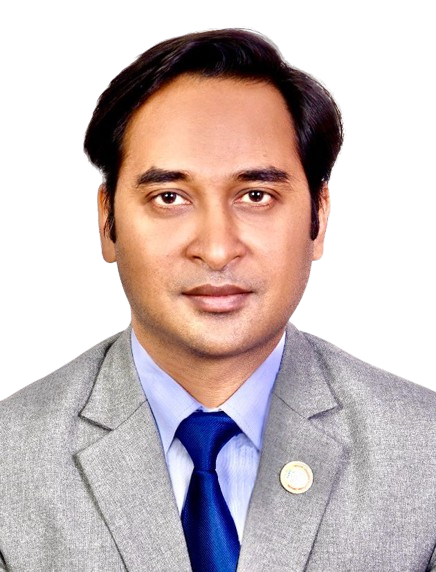
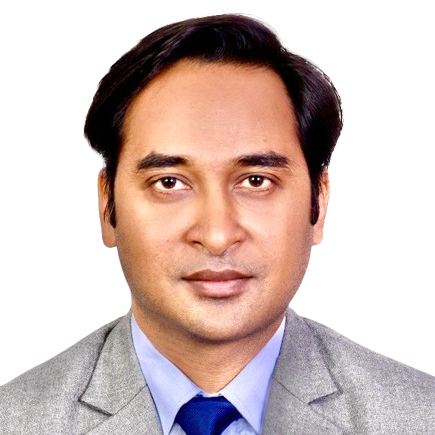
some pic changes

diff --git a/src/Components/Header.jsx b/src/Components/Header.jsx
@@ -53,11 +53,7 @@ const Header = () => {
                 </li>
 
 
-                {/* <li className="nav-item " onClick={closeNav}>
-                  <Link className="nav-link" to="/doctor">
-                    Find Doctors
-                  </Link>
-                </li> */}
+              
                 <li className="nav-item dropdown ">
                   <Link
                     className="nav-link dropdown-toggle"
@@ -77,12 +73,12 @@ const Header = () => {
                     </li>
                     <li onClick={closeNav}>
                       <Link className="dropdown-item dropdowncolor" to="/doctor">
-                       Gastrointerologies
+                       Gastrointerologist
                       </Link>
                     </li>
                     <li onClick={closeNav}>
                       <Link className="dropdown-item dropdowncolor" to="/doctor">
-                       Gastro
+                       Gastro Surgeon
                       </Link>
                     </li>
                     <li onClick={closeNav}>
@@ -92,7 +88,7 @@ const Header = () => {
                     </li>
                     <li onClick={closeNav}>
                       <Link className="dropdown-item dropdowncolor" to="/doctor">
-                        Oncologiest
+                        Onchologist
                       </Link>
                     </li>
                     <li onClick={closeNav}>
@@ -106,10 +102,67 @@ const Header = () => {
 
 
 
-                <li className="nav-item " onClick={closeNav}>
-                  <Link className="nav-link" to="/service">
+                
+
+                <li className="nav-item dropdown ">
+                  <Link
+                    className="nav-link dropdown-toggle"
+                    to="#"
+                    id="navbarDropdown"
+                    role="button"
+                    data-bs-toggle="dropdown"
+                    aria-expanded="false"
+                  >
                     Colorectal Disease
                   </Link>
+                  <ul className="dropdown-menu   border-0 " aria-labelledby="navbarDropdown ">
+                    <li onClick={closeNav}>
+                      <Link className="dropdown-item dropdowncolor " to="/service">
+                       Piles/Hemorrhoids
+                      </Link>
+                    </li>
+                    <li onClick={closeNav}>
+                      <Link className="dropdown-item dropdowncolor" to="/service">
+                      Fissure-in-Ano
+                      </Link>
+                    </li>
+                    <li onClick={closeNav}>
+                      <Link className="dropdown-item dropdowncolor" to="/service">
+                      Fistula in ANO
+                      </Link>
+                    </li>
+                    <li onClick={closeNav}>
+                      <Link className="dropdown-item dropdowncolor" to="/service">
+                   Rectal Prolapse
+                      </Link>
+                    </li>
+                    <li onClick={closeNav}>
+                      <Link className="dropdown-item dropdowncolor" to="/service">
+                       Pilonidal Sinus
+                      </Link>
+                    </li>
+                    <li onClick={closeNav}>
+                      <Link className="dropdown-item dropdowncolor" to="/service">
+                      Constipation
+                      </Link>
+                    </li>
+                     <li onClick={closeNav}>
+                      <Link className="dropdown-item dropdowncolor" to="/service">
+                     Colon Cancer
+                      </Link>
+                    </li>
+                      <li onClick={closeNav}>
+                      <Link className="dropdown-item dropdowncolor" to="/service">
+                   Rectal Cancer
+                      </Link>
+                    </li>
+                      <li onClick={closeNav}>
+                      <Link className="dropdown-item dropdowncolor" to="/service">
+                    IBD (UC & CD)
+                      </Link>
+                    </li>
+                    {/* Add more dropdown items as needed */}
+                  </ul>
                 </li>
 
                 <li className="nav-item " onClick={closeNav}>
@@ -119,16 +172,18 @@ const Header = () => {
                 </li>
 
                 <li className="nav-item " onClick={closeNav}>
+                  <Link className="nav-link" to="/caseStudy">
+                    Case Study
+                  </Link>
+                </li>
+
+                <li className="nav-item " onClick={closeNav}>
                   <Link className="nav-link" to="/contact">
                     Contact
                   </Link>
                 </li>
 
-                <li className="nav-item " onClick={closeNav}>
-                  <Link className="nav-link" to="/caseStudy">
-                    Case Study
-                  </Link>
-                </li>
+                
               </ul>
               <div className="ms-md-4  ">
                 <button className="btn shadow  rounded-pill" onClick={appointment}>

diff --git a/src/Data/DoctorData.jsx b/src/Data/DoctorData.jsx
@@ -1,7 +1,7 @@
 import drBinayImg from "/drBinay.png";
-import drRakeshImg from "/bgremoveRakesh.png";
+import drRakeshImg from "/coloRakesh.png";
 import drRoshan from "/drRoshan.png";
-import drDinesh from "/Dinesh.jpeg";
+import drDinesh from "/coloDinesh.png";
 
 export const Doctordata = [
   // id -1
@@ -15,16 +15,17 @@ export const Doctordata = [
     img: drRakeshImg,
     special: "पेट,आन्द्रा,मलाशय तथा मलद्वार रोग विशेषज्ञ।",
     Degree: [
-      "MBBS , SOMC , Sylhet Bangladesh",
-      "MS-Colorectal Suirgery , BSMMU, Dhaka,Bangladesh",
+      "MBBS  (SOMC) , Sylhet Bangladesh",
+      "MS-Colorectal Suirgery( BSMMU), Dhaka,Bangladesh",
      
     ],
     skill:"Advance Training LASER Proctology (India)",
     experience: "12 years",
     WorkingHospitals: [
-      "NAMS , Bir Hospital",
-      "Nepal National Hospital , Kalanki",
-      "FrontLine Hospital",
+      "NAMS , Bir Hospital , kathmandu",
+      "Nepal National Hospital , Kalanki,Kathmandu",
+      "FrontLine Hospital , Old Baneshwor, Kathmandu",
+      "Kavya Hospital , Janakpur Dham"
     ],
     Journals: [
       {
@@ -36,11 +37,9 @@ export const Doctordata = [
     ],
     Awards: [
       {
-        title: "Excellence in Colorectal Surgery",
+        title: "Outcome of Core out Fistulectomy with Anal Spincter Reconstruction and Primary Repair of Internal Opening in the Treatment of Complex Anal Fistula; A Experience of 30 Cases published in GAJMS as Co-author on 4th Aug,2022",
       },
-      {
-        title: "Outstanding Contribution to Surgical Education",
-      },
+     
     ],
   },
 
@@ -94,7 +93,7 @@ export const Doctordata = [
     email: "email",
     role: "Pediatric  Surgeon",
     img: drRoshan,
-    special: "पेट,आन्द्रा,मलाशय तथा मलद्वार रोग विशेषज्ञ।",
+    special: "बाल शल्य चिकित्सा विशेषज्ञ।",
     designation: "Consultant",
     Degree: [
       "MBBS , SOMC , SYLHET Bangladesh",
@@ -135,7 +134,7 @@ export const Doctordata = [
     email: "drdineshprasadkoirala61@gmail.com",
     role: "Pediatric  Surgeon",
     img: drDinesh,
-    special: "पेट,आन्द्रा,मलाशय तथा मलद्वार रोग विशेषज्ञ।",
+    special: "बाल शल्य चिकित्सा विशेषज्ञ।",
     designation: "Consultant",
     Degree: [
       "MS Pediatric  Surgery ",
@@ -163,7 +162,7 @@ export const Doctordata = [
     phoneNo: "+977-9851119467",
     email: "drrameshorbhandari@gmail.com",
     role: "Colorectal  Surgeon",
-    img: drRoshan,
+    
     special: "पेट,आन्द्रा,मलाशय तथा मलद्वार रोग विशेषज्ञ।",
     designation: "Consultant Colorectal Surgeon",
     Degree: [

diff --git a/src/Pages/DoctorDetails.jsx b/src/Pages/DoctorDetails.jsx
@@ -81,7 +81,7 @@ const DoctorDetails = () => {
             </ul>
 
             <p>
-            {doctor.skill && <p>Skill & Training: {doctor.skill}</p>}
+            {doctor.skill && <p><strong>Skill & Training:</strong> {doctor.skill}</p>}
             </p>
           </div>
         </div>

diff --git a/src/Data/cardData.jsx b/src/Data/cardData.jsx
@@ -563,7 +563,7 @@ const cards = [
 
     //Polyp
     {
-        id: 10, //LEFT TO EDIT
+        id: 10, //LEFT  TO  EDIT
         image: polypImg,
         title: "Polyp",
         description:
